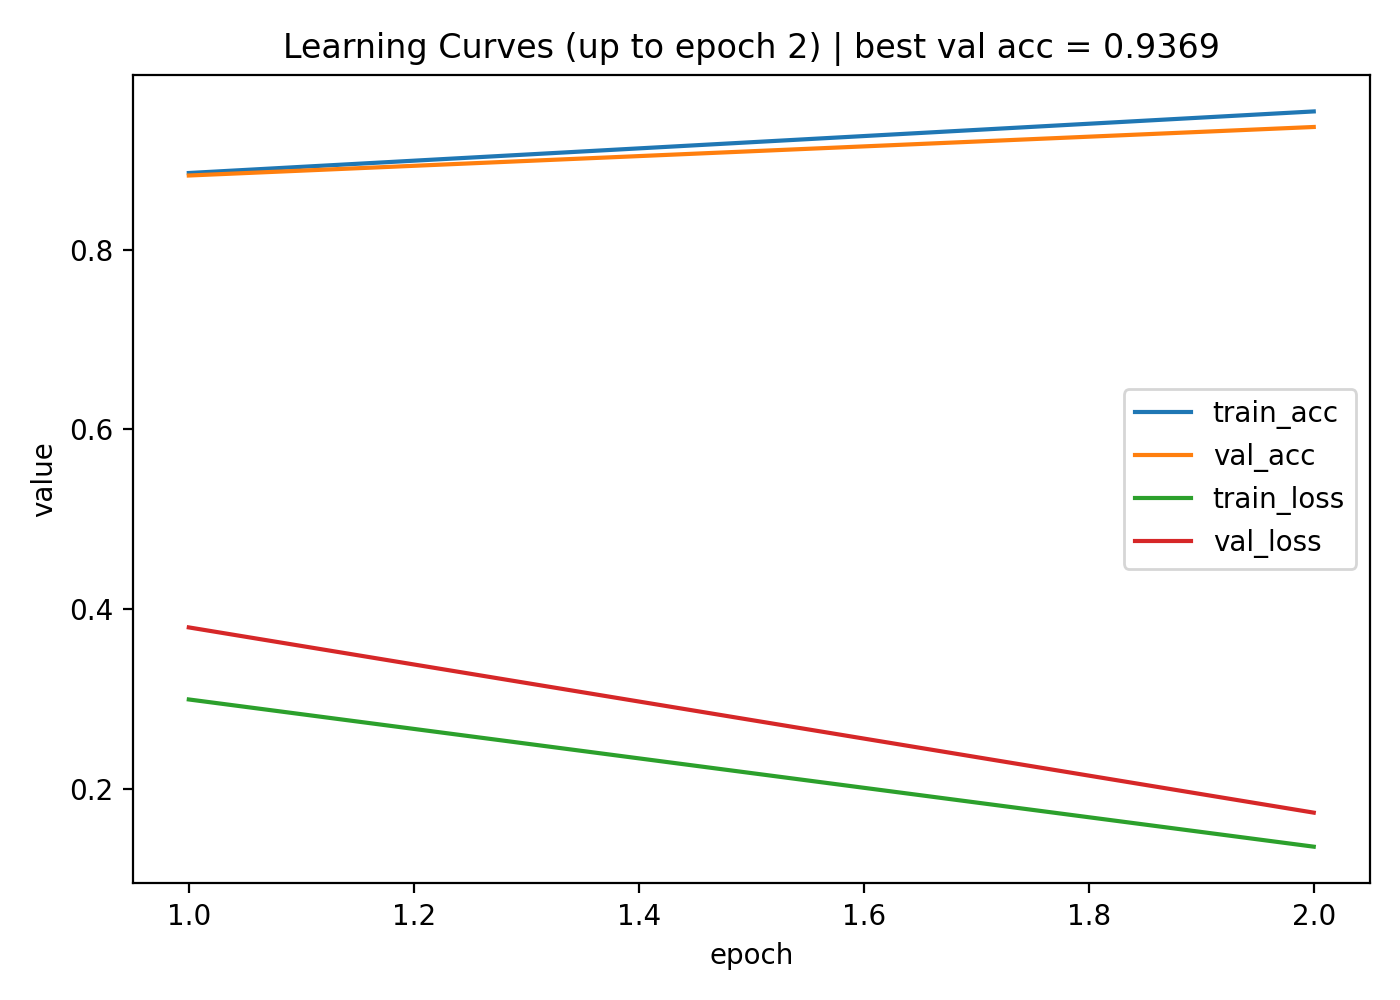
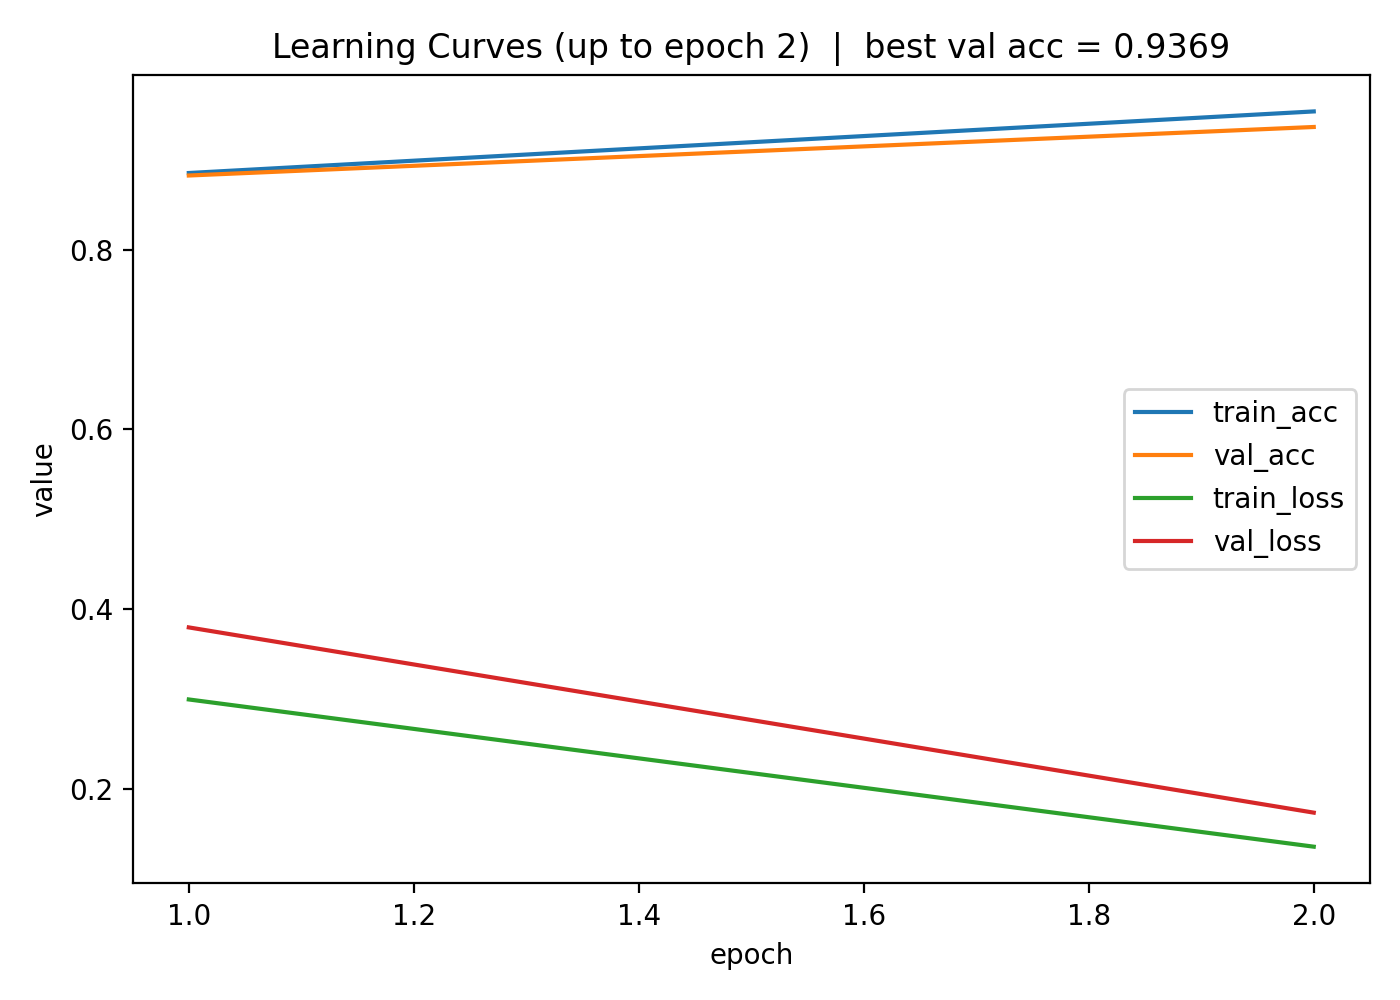
tidy terminal output

Changed region(s): [[0.1843, 0.031, 0.8907, 0.062]]

diff --git a/src/train.py b/src/train.py
@@ -1,25 +1,49 @@
-import json
+# src/train.py
+import json, time
 from pathlib import Path
 import matplotlib.pyplot as plt
+
 import torch
 import torch.nn as nn
-from typing import Tuple
+from typing import Tuple, Dict, List
 from torch.utils.tensorboard import SummaryWriter
 from tqdm.auto import tqdm
 
-# Takes model output and true labels
+
+# ---------- small utilities ----------
 def accuracy_from_logits(logits: torch.Tensor, y: torch.Tensor) -> float:
     preds = torch.argmax(logits, dim=1)
     return (preds == y).float().mean().item()
 
+def _fmt_time(s: float) -> str:
+    m, s = divmod(int(s), 60)
+    return f"{m:02d}:{s:02d}"
 
+def _get_targets(ds) -> torch.Tensor:
+    if hasattr(ds, "targets"):
+        return torch.as_tensor(ds.targets)
+    # ImageFolder fallback
+    return torch.as_tensor([t for _, t in ds.samples])
+
+def _class_counts(ds) -> List[str]:
+    if not hasattr(ds, "classes"): return []
+    y = _get_targets(ds)
+    counts = torch.bincount(y, minlength=len(ds.classes)).tolist()
+    return [f"{cls}({cnt})" for cls, cnt in zip(ds.classes, counts)]
+
+def _num_params(model) -> Dict[str, int]:
+    total = sum(p.numel() for p in model.parameters())
+    trainable = sum(p.numel() for p in model.parameters() if p.requires_grad)
+    return {"total": total, "trainable": trainable}
+
+def _current_lrs(optimizer) -> str:
+    lrs = sorted({pg["lr"] for pg in optimizer.param_groups})
+    if len(lrs) == 1: return f"{lrs[0]:.2e}"
+    return ", ".join(f"{lr:.2e}" for lr in lrs)
+
+
+# ---------- one epoch (with a live progress bar) ----------
 def run_epoch(model,loader,criterion,optimizer,device,train: bool,epoch: int,epochs: int,) -> Tuple[float, float]:
-    
-    """
-    One pass over loader with a live progress bar.
-    Returns (avg_loss, avg_acc).
-    """
-
     model.train() if train else model.eval()
     epoch_loss = 0.0
     epoch_acc = 0.0
@@ -51,17 +75,15 @@ def run_epoch(model,loader,criterion,optimizer,device,train: bool,epoch: int,epo
         epoch_acc  += accuracy_from_logits(out, yb) * bsz
         total      += bsz
 
-        # Live running averages in the bar
-        bar.set_postfix(
-            loss=f"{epoch_loss/max(total,1):.4f}",
-            acc=f"{epoch_acc/max(total,1):.4f}",
-        )
+        # running averages in the bar
+        bar.set_postfix(loss=f"{epoch_loss/max(total,1):.4f}",
+                        acc=f"{epoch_acc/max(total,1):.4f}")
 
     return epoch_loss / total, epoch_acc / total
 
-# Save learning-curve PNG (up to this epoch) and write history.json.
-def _save_curve(history, epoch, best_val_acc, outdir="reports"):
 
+# ---------- curves / history ----------
+def _save_curve(history, epoch, best_val_acc, outdir="reports"):
     Path(outdir).mkdir(parents=True, exist_ok=True)
     xs = list(range(1, epoch + 1))
 
@@ -71,7 +93,7 @@ def _save_curve(history, epoch, best_val_acc, outdir="reports"):
     plt.plot(xs, history["train_loss"][:epoch], label="train_loss")
     plt.plot(xs, history["val_loss"][:epoch],   label="val_loss")
     plt.xlabel("epoch"); plt.ylabel("value")
-    plt.title(f"Learning Curves (up to epoch {epoch}) | best val acc = {best_val_acc:.4f}")
+    plt.title(f"Learning Curves (up to epoch {epoch})  |  best val acc = {best_val_acc:.4f}")
     plt.legend(); plt.tight_layout()
     plt.savefig(f"{outdir}/curve_ep{epoch:02d}.png", dpi=200)
     plt.close()
@@ -80,38 +102,43 @@ def _save_curve(history, epoch, best_val_acc, outdir="reports"):
         json.dump(history, f, indent=2)
 
 
+# ---------- main training loop ----------
 def train_model(model, loaders, epochs, lr, device, patience=3):
-
     """
-    Train the model and:
-      - show tqdm progress bars for train/val each epoch
-      - log metrics to TensorBoard (runs/recycle)
-      - save best weights to models/resnet18_best.pt
-      - save a curve PNG to reports/ after every epoch
+    Trains the model with clean terminal blocks + tqdm bars, logs to TensorBoard,
+    saves best checkpoint to models/resnet18_best.pt, and a curve PNG each epoch.
     """
-
     criterion = nn.CrossEntropyLoss()
     optimizer = torch.optim.AdamW(model.parameters(), lr=lr, weight_decay=1e-4)
     scheduler = torch.optim.lr_scheduler.ReduceLROnPlateau(
         optimizer, mode="max", factor=0.5, patience=1
     )
+    writer = SummaryWriter("runs/recycle")
 
-    writer = SummaryWriter("runs/recycle")  # view with: tensorboard --logdir runs
+    # ----- pretty header -----
+    pstats = _num_params(model)
+    classes_line = ", ".join(_class_counts(loaders["train"].dataset)) or "(classes unavailable)"
+    print("\n" + "=" * 68)
+    print(" TRAINING START ")
+    print("-" * 68)
+    print(f" epochs: {epochs} | lr: {lr:.2e} | patience: {patience} | bs: {loaders['train'].batch_size}")
+    print(f" train batches: {len(loaders['train'])} | val batches: {len(loaders['val'])}")
+    print(f" params: {pstats['trainable']:,} trainable / {pstats['total']:,} total")
+    print(f" classes: {classes_line}")
+    print("=" * 68 + "\n")
+
     best_val_acc, best_state, bad = 0.0, None, 0
     history = {"train_loss": [], "val_loss": [], "train_acc": [], "val_acc": []}
 
     for ep in range(1, epochs + 1):
+        ep_t0 = time.time()
+
         tr_loss, tr_acc = run_epoch(model, loaders["train"], criterion, optimizer, device, True,  ep, epochs)
         va_loss, va_acc = run_epoch(model, loaders["val"],   criterion, optimizer, device, False, ep, epochs)
-        scheduler.step(va_acc)
 
+        scheduler.step(va_acc)
         history["train_loss"].append(tr_loss); history["val_loss"].append(va_loss)
         history["train_acc"].append(tr_acc);   history["val_acc"].append(va_acc)
-
-        # epoch summary line
-        print(f"[{ep:02d}/{epochs}] "
-              f"train_loss={tr_loss:.4f} acc={tr_acc:.4f} | "
-              f"val_loss={va_loss:.4f} acc={va_acc:.4f}")
 
         # TensorBoard scalars
         writer.add_scalar("loss/train", tr_loss, ep)
@@ -120,20 +147,30 @@ def train_model(model, loaders, epochs, lr, device, patience=3):
         writer.add_scalar("acc/val",    va_acc,  ep)
         writer.flush()
 
-        # Save best weights
-        if va_acc > best_val_acc:
+        improved = va_acc > best_val_acc
+        if improved:
             best_val_acc, best_state, bad = va_acc, model.state_dict(), 0
             Path("models").mkdir(parents=True, exist_ok=True)
             torch.save(best_state, "models/resnet18_best.pt")
-            print("  ↳ saved: models/resnet18_best.pt")
         else:
             bad += 1
-            if bad >= patience:
-                print("  ↳ early stop")
-                _save_curve(history, ep, best_val_acc)
-                break
 
-        # Curve PNG for this epoch
+        # neat epoch summary block
+        print("\n" + "-" * 68)
+        print(f" EPOCH {ep:02d}/{epochs:02d}  |  time { _fmt_time(time.time()-ep_t0) }  |  lr { _current_lrs(optimizer) }")
+        print("-" * 68)
+        print(f"   Train  •  loss {tr_loss:.4f}  |  acc {tr_acc:.4f}")
+        print(f"   Val    •  loss {va_loss:.4f}  |  acc {va_acc:.4f}  |  "
+              f"{'NEW BEST ✓' if improved else f'best {best_val_acc:.4f}'}")
+        if improved:
+            print("   Saved  •  models/resnet18_best.pt")
+        if bad >= patience:
+            print("-" * 68)
+            print(f" EARLY STOP  •  no val acc improvement for {patience} epoch(s)")
+            print("-" * 68)
+            _save_curve(history, ep, best_val_acc)
+            break
+
         _save_curve(history, ep, best_val_acc)
 
     # load best before returning
@@ -141,4 +178,7 @@ def train_model(model, loaders, epochs, lr, device, patience=3):
         model.load_state_dict(best_state)
 
     writer.close()
+    print("\n" + "=" * 68)
+    print(f" TRAINING DONE  •  best val acc = {best_val_acc:.4f}")
+    print("=" * 68 + "\n")
     return model, best_val_acc
